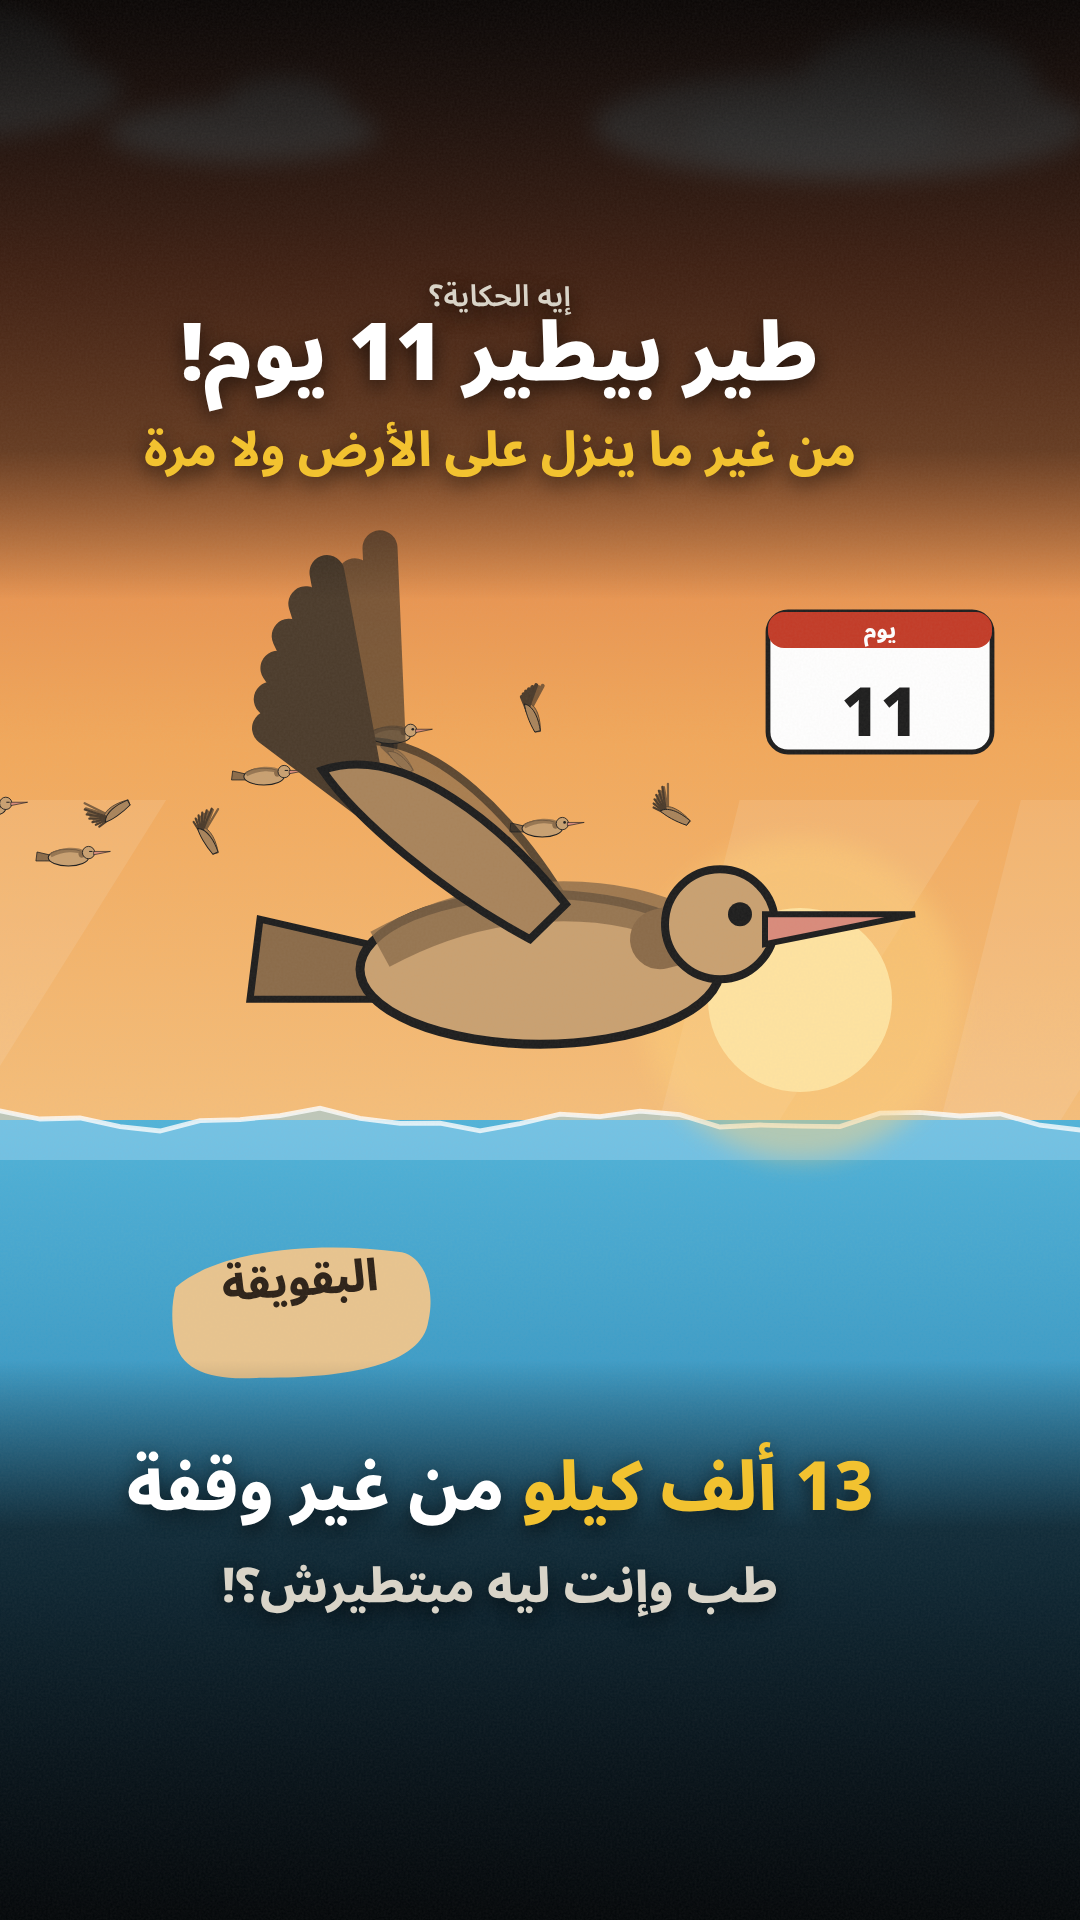
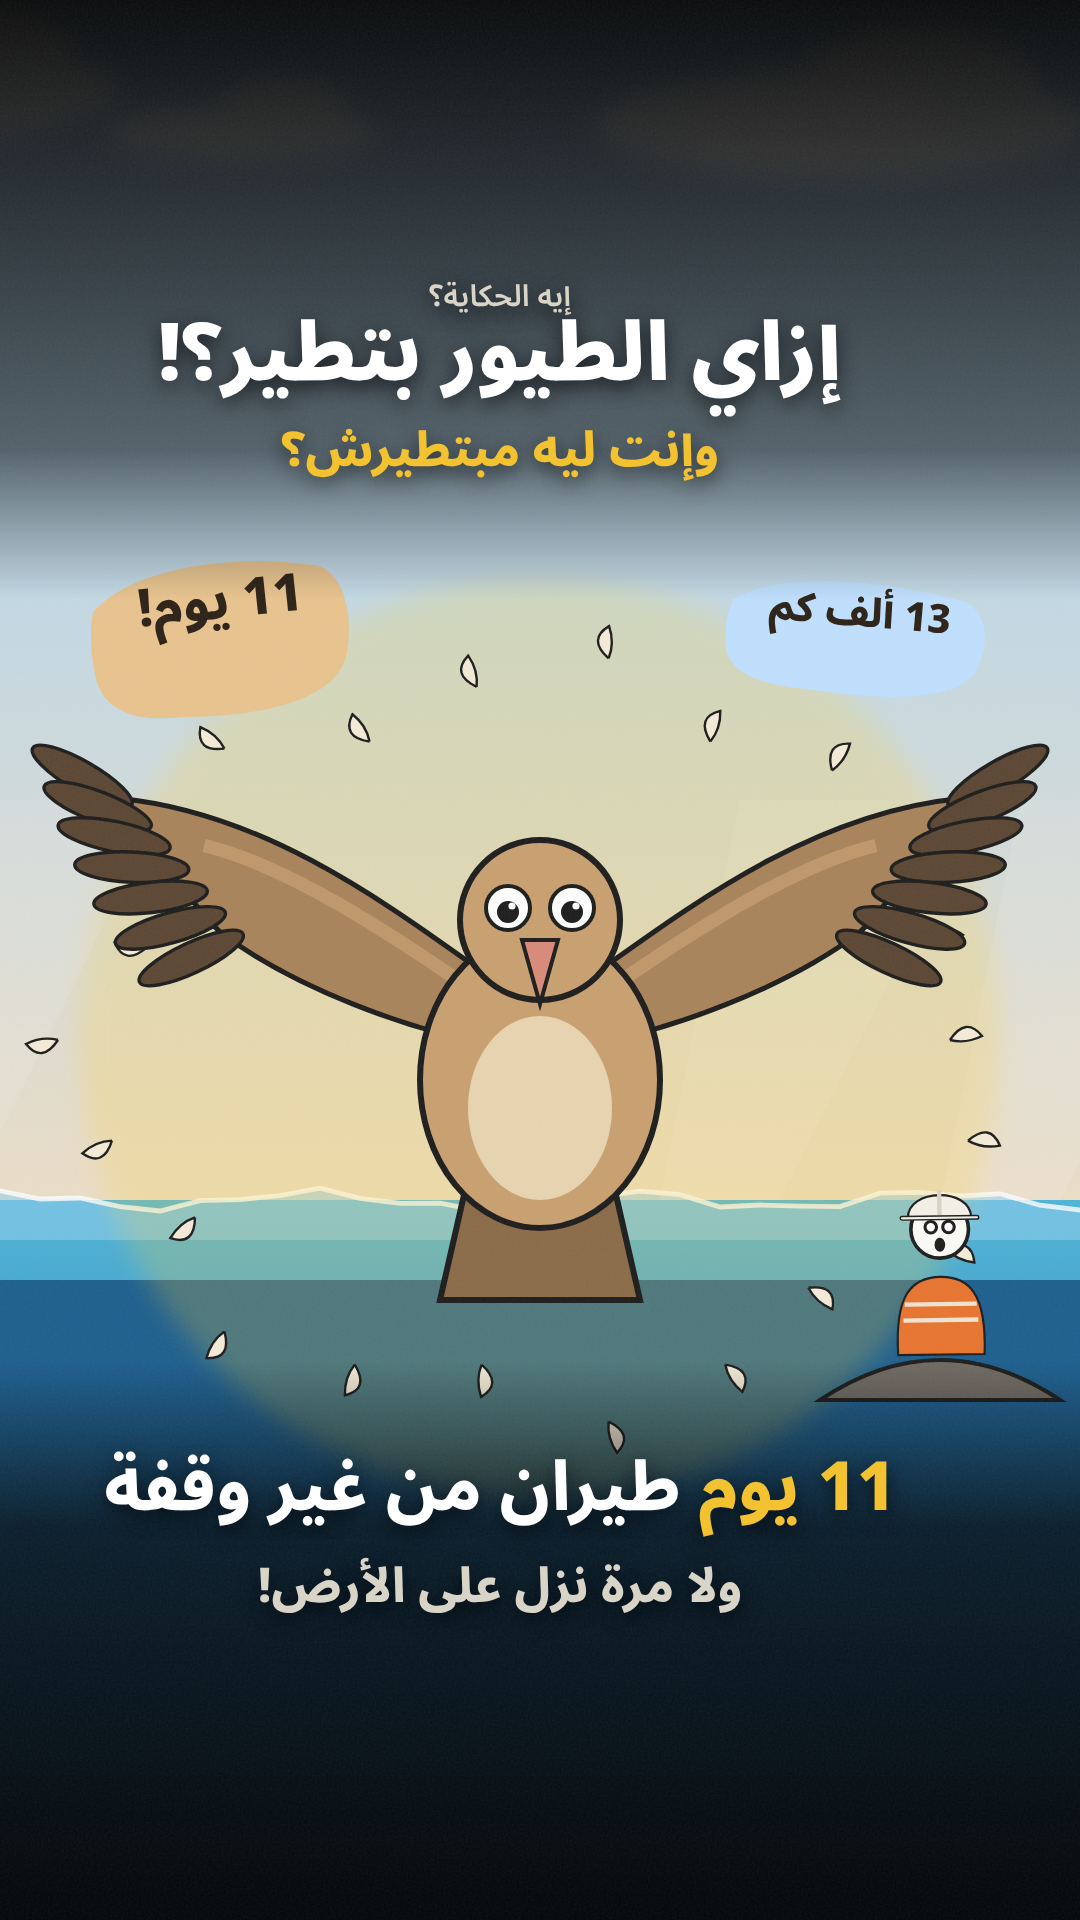
Birds cover redone on the tunnel-cover recipe; the skill keeps that recipe for every cover
Claude-Session: https://claude.ai/code/session_012dTfAniKuQkAFVCkp63p6x

diff --git a/brand/eh-elhekaya/cover-birds-tiktok.html b/brand/eh-elhekaya/cover-birds-tiktok.html
@@ -13,9 +13,9 @@
 <div class="cover">
   <svg id="art" viewBox="0 0 540 960"></svg>
   <p class="t" style="top:132px;font:600 15px 'Noto Sans Arabic';color:#d9d4c8">إيه الحكاية؟</p>
-  <p class="t" style="top:154px;font:900 40px/1.2 'Noto Sans Arabic';color:#fff">طير بيطير 11 يوم!</p>
-  <p class="t" style="top:210px;font:800 24px/1.3 'Noto Sans Arabic';color:#f2c230">من غير ما ينزل على الأرض ولا مرة</p>
-  <p class="t" style="top:722px;font:800 34px/1.35 'Noto Sans Arabic';color:#fff"><span style="color:#f2c230">13 ألف كيلو</span> من غير وقفة<br><span style="font-size:24px;color:#d9d4c8">طب وإنت ليه مبتطيرش؟!</span></p>
+  <p class="t" style="top:154px;font:900 40px/1.2 'Noto Sans Arabic';color:#fff">إزاي الطيور بتطير؟!</p>
+  <p class="t" style="top:210px;font:800 24px/1.3 'Noto Sans Arabic';color:#f2c230">وإنت ليه مبتطيرش؟</p>
+  <p class="t" style="top:722px;font:800 34px/1.35 'Noto Sans Arabic';color:#fff"><span style="color:#f2c230">11 يوم</span> طيران من غير وقفة<br><span style="font-size:24px;color:#d9d4c8">ولا مرة نزل على الأرض!</span></p>
 </div>
 <svg width="0" height="0" style="position:absolute" aria-hidden="true"><defs>
   <filter id="soft" x="-30%" y="-30%" width="160%" height="160%"><feGaussianBlur stdDeviation="6"/></filter>
@@ -81,12 +81,29 @@
 <script>
   (function () {
     var P = window.__parts, t = 2.2, s = "";
-    // a golden-hour ocean, the godwit big in the middle mid-wingbeat, a small flock far behind, the day counter at 11
-    s += P.sea(t, 560, 0, { sky: "sunset" });
-    s += '<circle cx="400" cy="500" r="80" fill="#ffd27a" opacity=".45" filter="url(#soft)"/><circle cx="400" cy="500" r="46" fill="#ffe3a0"/>';
-    s += P.flock(t, 400, 5, 0, 0.28, "godwit").replace(/translate\((-?[0-9.]+)/g, function (m, x) { return "translate(" + (+x + 260); });
-    s += P.bird(270, 488, t, { k: "godwit", s: 2.5, ph: 0.35, open: 0 });
-    s += P.dayCounter(440, 340, 11, t) + P.tag("البقويقة", 150, 640, 9, 0, -4, 22);
+    // the tunnel cover's recipe: the scene at the top (sky and sea), one huge hero dead centre and face-on with a glow
+    // and bits flying out radially, a number tag on each side, a shocked worker in the corner for scale
+    s += P.sea(t, 600, 0, {}) + '<rect x="0" y="640" width="540" height="320" fill="#1c5f8f"/>';
+    var cx = 270, cy = 520;
+    s += '<circle cx="' + cx + '" cy="' + cy + '" r="230" fill="#ffd23a" opacity=".22" filter="url(#soft)"/>';
+    for (var k = 0; k < 22; k++) { var a = k / 22 * Math.PI * 2, r = 205 + (k % 3) * 18, fx = cx + Math.cos(a) * r, fy = cy + Math.sin(a) * r * 0.8;
+      s += '<path d="M' + fx.toFixed(1) + ' ' + fy.toFixed(1) + ' q8 -12 16 -2 q-8 4 -16 2" fill="#f4ecd8" stroke="#1c1c1c" stroke-width="1.2" transform="rotate(' + (a * 57.3).toFixed(0) + ' ' + fx.toFixed(1) + ' ' + fy.toFixed(1) + ')"/>'; }
+    // the bird, head-on: wings spread wide and up, primaries fanned, body, tail below, eyes on the viewer
+    var wing = function (dir) {
+      var g = '<g transform="translate(' + cx + ' ' + (cy - 20) + ') scale(' + (dir * 0.84) + ' 0.84)">';
+      g += '<path d="M10 0 C70 -40 150 -110 250 -120 C230 -90 210 -60 190 -40 C150 -10 80 20 10 30 Z" fill="#a8835a" stroke="#1c1c1c" stroke-width="3"/>';
+      for (var p = 0; p < 7; p++) { var k = p / 6, bx = 250 - k * 66, by = -120 + k * 84, ang = -30 + k * 55; g += '<ellipse cx="' + (bx + Math.cos(ang / 57.3) * 26).toFixed(1) + '" cy="' + (by + Math.sin(ang / 57.3) * 26).toFixed(1) + '" rx="34" ry="9" transform="rotate(' + ang + ' ' + (bx + Math.cos(ang / 57.3) * 26).toFixed(1) + ' ' + (by + Math.sin(ang / 57.3) * 26).toFixed(1) + ')" fill="#5a4632" stroke="#1c1c1c" stroke-width="2"/>'; }
+      g += '<path d="M40 -6 C90 -40 150 -80 200 -92" stroke="#c9a070" stroke-width="8" fill="none" opacity=".7"/>';
+      return g + '</g>';
+    };
+    s += wing(1) + wing(-1);
+    s += '<path d="M' + (cx - 34) + ' ' + (cy + 60) + ' L' + (cx - 50) + ' ' + (cy + 130) + ' H' + (cx + 50) + ' L' + (cx + 34) + ' ' + (cy + 60) + ' Z" fill="#8a6a48" stroke="#1c1c1c" stroke-width="3"/>';
+    s += '<ellipse cx="' + cx + '" cy="' + (cy + 20) + '" rx="60" ry="74" fill="#c9a070" stroke="#1c1c1c" stroke-width="3"/><ellipse cx="' + cx + '" cy="' + (cy + 34) + '" rx="36" ry="46" fill="#e8d4b0"/>';
+    s += '<circle cx="' + cx + '" cy="' + (cy - 60) + '" r="40" fill="#c9a070" stroke="#1c1c1c" stroke-width="3"/>';
+    [-16, 16].forEach(function (ex) { s += '<circle cx="' + (cx + ex) + '" cy="' + (cy - 66) + '" r="11" fill="#fff" stroke="#1c1c1c" stroke-width="2"/><circle cx="' + (cx + ex) + '" cy="' + (cy - 64) + '" r="5.5" fill="#1c1c1c"/><circle cx="' + (cx + ex + 2) + '" cy="' + (cy - 67) + '" r="1.8" fill="#fff"/>'; });
+    s += '<path d="M' + (cx - 9) + ' ' + (cy - 50) + ' L' + cx + ' ' + (cy - 18) + ' L' + (cx + 9) + ' ' + (cy - 50) + ' Z" fill="#d98a7a" stroke="#1c1c1c" stroke-width="2"/>';
+    s += '<path d="M410 700 Q470 660 530 700 Z" fill="#6f6a62" stroke="#1c1c1c" stroke-width="2"/>' + P.hardHat(470, 628, 0.36, t, "shock", {});
+    s += P.tag("11 يوم!", 110, 300, 9, 0, -6, 26) + P.tag("13 ألف كم", 430, 306, 9, 0, 5, 20, "#bfe0ff");
     s += '<defs><linearGradient id="fadeT" x1="0" y1="0" x2="0" y2="1"><stop offset="0" stop-color="#000" stop-opacity=".95"/><stop offset=".75" stop-color="#000" stop-opacity=".55"/><stop offset="1" stop-color="#000" stop-opacity="0"/></linearGradient>' +
          '<linearGradient id="fadeB" x1="0" y1="0" x2="0" y2="1"><stop offset="0" stop-color="#000" stop-opacity="0"/><stop offset=".3" stop-color="#000" stop-opacity=".7"/><stop offset="1" stop-color="#000" stop-opacity=".95"/></linearGradient></defs>';
     s += '<rect width="540" height="300" fill="url(#fadeT)"/><rect y="680" width="540" height="280" fill="url(#fadeB)"/>';

diff --git a/.claude/skills/animation/SKILL.md b/.claude/skills/animation/SKILL.md
@@ -185,6 +185,11 @@ code. Keep mix.wav and the mp4 in the scratchpad, not in the repo.
   Noto) to `cover-<slug>-tiktok.html`. **Every cover's title and sub-title are in Noto Sans Arabic, never Aref Ruqaa** (the user's
   fixed choice). It is **full bleed**, 540×960
   (1080×1920 at 2x):
+  - **the tunnel-cover recipe (that cover brought about 800 thousand views, so keep to it):** one hero object, **face-on,
+    huge and dead centre** (the cutterhead, a bird with its wings spread), a soft yellow glow behind it and small bits flying
+    out radially around it (soil chips, feathers); the setting as a strip at the top (sky, water surface); a number tag on
+    each side; a shocked hard-hat worker in the bottom-right corner for scale. See `cover-tbm-tunnel-tiktok.html` and
+    `cover-birds-tiktok.html`.
   - the picture fills the whole frame (`<svg id="art" viewBox="0 0 540 960">`), composed from the video's `window.__parts`
     (load `timing.js` and `cartoon/scenes.js`), with the main object big in the middle, a hard-hat character for scale and
     one or two brush tags with the key numbers, plus film grain;
